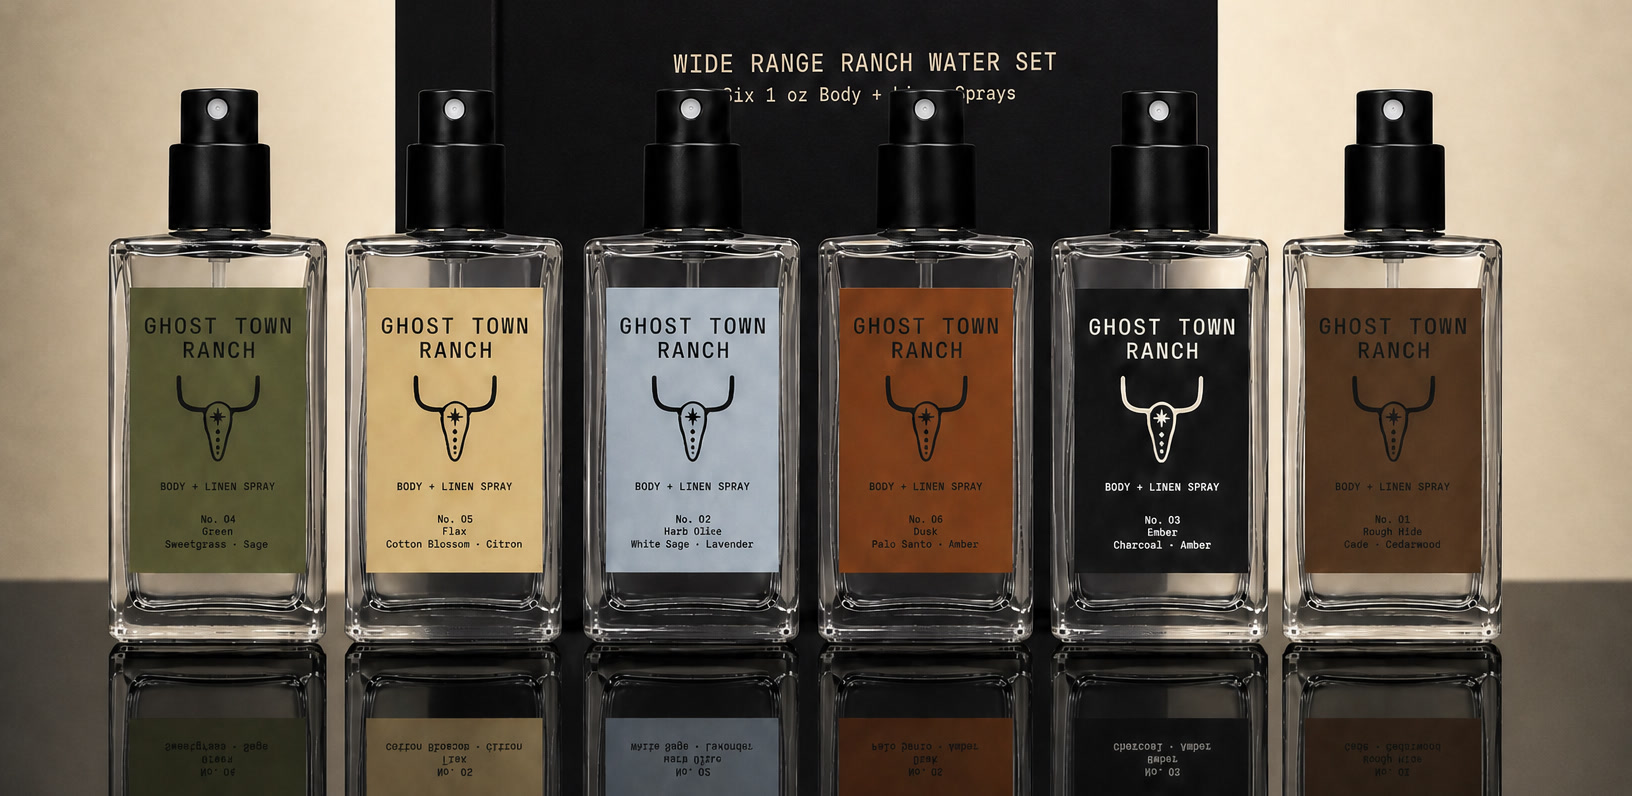
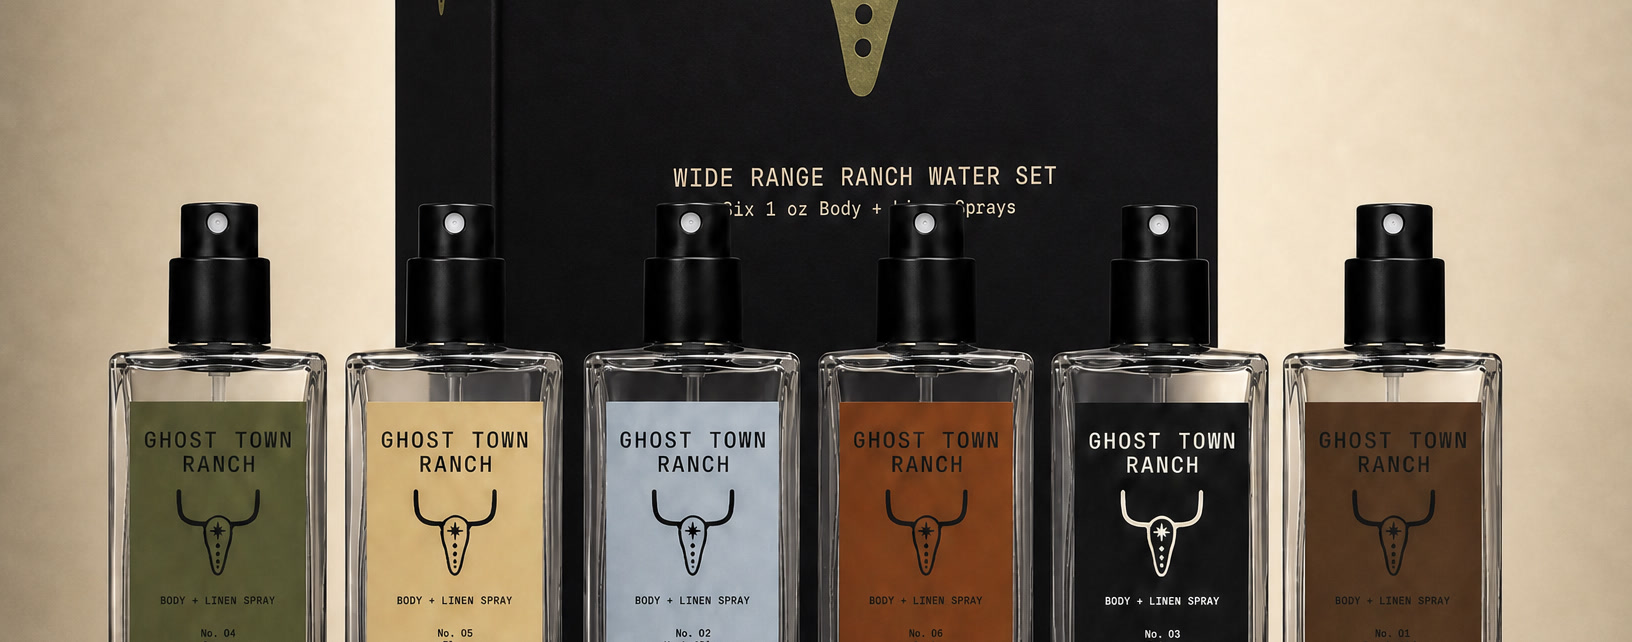
Ritual hero: crop to label numbers, hide scent name lines
Claude-Session: https://claude.ai/code/session_01MBVU4E7RtMy9HZCXNsUk3V

diff --git a/ritual/index.html b/ritual/index.html
@@ -185,7 +185,7 @@
     }
     .page-hero-img img {
       width: 100%; height: 100%;
-      object-fit: cover; object-position: center 55%;
+      object-fit: cover; object-position: center bottom;
       display: block;
     }
     .page-hero-img::after {
@@ -804,7 +804,7 @@
 
   <!-- HERO -->
   <section class="page-hero-img">
-    <img src="/ritual-hero-ranchwater.jpg?v=2"
+    <img src="/ritual-hero-ranchwater.jpg?v=3"
       alt="A row of Ghost Town Ranch Ranch Water bottles in the six scents"
       loading="eager">
     <div class="page-hero-overlay">
